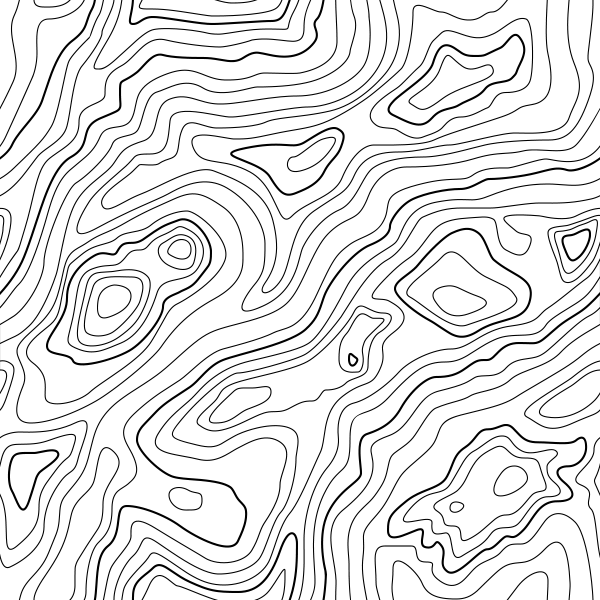
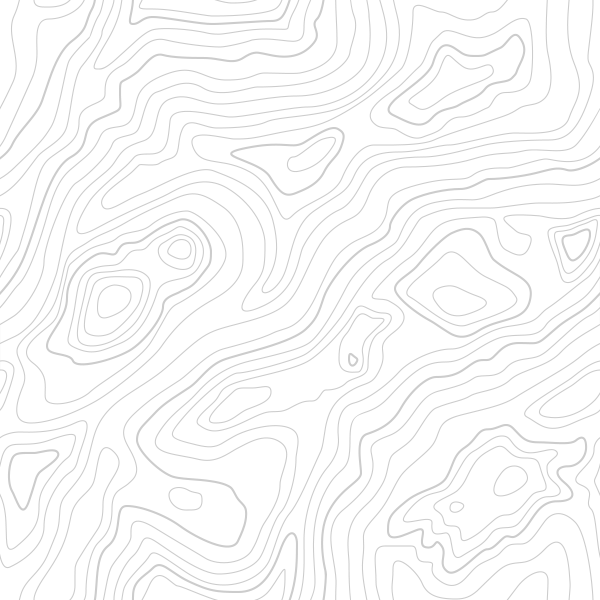
perf(login page optimization): improved css and html code

diff --git a/src/pages/login/login.css b/src/pages/login/login.css
@@ -1,111 +1,78 @@
-html, body {
+html,
+body {
   height: 100%;
   margin: 0;
   padding: 0;
+  font-family: "Roboto", sans-serif;
 }
 
-h2 {
-  margin: 20px 0px 20px;
+h1 {
+  margin: 20px 0 35px;
+  color: #ffffff;
+  letter-spacing: 1px;
 }
 
 .login-page {
   height: 100vh;
+  display: flex;
+  justify-content: center;
+  align-items: center;
+  padding-top: 0;
   background-color: #fefeff;
   background-image: url('/src/assets/img/topography.png');
   background-repeat: repeat;
   background-size: auto;
-  display: flex;
-  justify-content: center; 
-  align-items: center;
-  padding-top: 0;
 }
 
 .login-box {
   width: 500px;
-  min-height: fit-content;
   padding: 30px;
-  background: linear-gradient(145deg, #9AA6BF, #8a95b0);
+  text-align: center;
+  background: linear-gradient(145deg, #9aa6bf, #8a95b0);
   border-radius: 20px;
-  box-shadow: 0 8px 20px rgba(0,0,0,0.25);
-  text-align: center;
-  margin: 0;
-  animation: fadeIn 0.6s ease-in-out; 
+  box-shadow: 0 8px 20px rgba(0, 0, 0, 0.25);
 }
 
-.login-box h2 {
-  margin-bottom: 20px;
-  font-family: "Roboto", sans-serif;
-  font-weight: 600;
-  font-size: 36px;
-  text-align: center;
-  color: #FFFFFF;
-  letter-spacing: 1px;
-}
-
-.input-group {
+form {
   display: flex;
   flex-direction: column;
-  margin-bottom: 25px;
-  margin-top: 30px;
-  text-align: left;
+  margin: 25px 0 30px;
+  row-gap: 20px;
 }
 
-.input-group label {
-  font-family: "Roboto", sans-serif;
-  font-weight: 500;
-  font-size: 18px;
-  margin-bottom: 15px;
-  color: #FFFFFF;
-}
-
-.input-group input {
+input {
   padding: 20px;
+  font-size: 16px;
+  color: #333;
   border: none;
   border-radius: 12px;
-  font-family: "Roboto", sans-serif;
-  font-size: 16px;
   outline: none;
   background: #ffffff;
-  color: #333;
-  box-shadow: inset 0 2px 5px rgba(0,0,0,0.1);
+  box-shadow: inset 0 2px 5px rgba(0, 0, 0, 0.1);
   transition: box-shadow 0.3s, transform 0.2s;
 }
 
-.input-group input:focus {
+input:focus {
   box-shadow: 0 0 8px rgba(124, 222, 255, 0.8);
   transform: scale(1.02);
 }
 
-.login-btn {
+button {
   width: 100%;
   padding: 16px;
-  margin-top: 20px;
-  background-color: #7CDEFF;
+  font-size: 18px;
+  font-weight: 600;
   color: #ffffff;
+  cursor: pointer;
   border: none;
   border-radius: 12px;
-  font-family: "Roboto", sans-serif;
-  font-weight: 600;
-  font-size: 18px;
-  cursor: pointer;
-  transition: all 0.3s ease;
+  background-color: #7cdeff;
   box-shadow: 0 4px 10px rgba(124, 222, 255, 0.5);
+  transition: all 0.3s ease;
 }
 
-.login-btn:hover {
-  background-color: #4682B4;
+button:hover {
+  background-color: #4682b4;
   transform: translateY(-3px);
   box-shadow: 0 6px 14px rgba(70, 130, 180, 0.6);
-}
-
-/* Animação de entrada */
-@keyframes fadeIn {
-  from {
-    opacity: 0;
-    transform: translateY(-15px);
-  }
-  to {
-    opacity: 1;
-    transform: translateY(0);
-  }
 }

diff --git a/src/pages/login/login.tsx b/src/pages/login/login.tsx
@@ -3,20 +3,16 @@ import "./login.css";
 export default function Login() {
   return (
     <div className="login-page">
+
       <div className="login-box">
-        <h2>Biblioteca Virtual</h2>
+        <h1>Biblioteca Virtual</h1>
         <form>
-          <div className="input-group">
-            <input type="email" id="email" placeholder="Digite seu email" required />
-          </div>
-
-          <div className="input-group">
-            <input type="password" id="password" placeholder="Digite sua senha" required />
-          </div>
-
-          <button type="submit" className="login-btn">Entrar</button>
+          <input type="email" id="email" placeholder="Digite seu email" required autoComplete="off" title="Insert your Email" />
+          <input type="password" id="password" placeholder="Digite sua senha" required autoComplete="off" title="Insert your Password" />
+          <button type="submit">Entrar</button>
         </form>
       </div>
+
     </div>
   );
 }